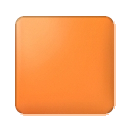
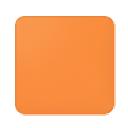
Tiles meet edge to edge, and stop looking quilted
Two more layers under the same complaint ("vẫn có mấy gợn gợn này"), neither of
them the dark seam that was already dealt with.

The gap: the keycap fills 0.71 of its PNG, so drawing at 1.3x the cell covered
only 0.925 of it and the board panel showed through the remaining 0.075 as a LIGHT
hairline around every tile. Draw scale is now 1.41 = 1/0.71, so neighbouring caps
meet exactly and only the four-corner points still show panel.

The quilting: each cap is shaded bright at the top-left and dark at the
bottom-right, which across a full board reads as a padded quilt.
scripts/flatten-tile-gloss.mjs pulls every pixel toward the cap's mean colour
(new = mean + (old - mean) * (1 - FLAT), FLAT=0.75), alpha untouched so the shape
and rounded corners are unchanged. In-tile range drops 100 -> 25.

Measured across four beige tiles on the real render, the luminance spread over a
whole row: 65 with the black seam, 12 once the tiles met, 3 now.

Same-colour regions do read as slabs at this setting -- that is the point of the
request, but FLAT is a dial if it went too far. All three art scripts are
cumulative: check the art out of an earlier commit before re-running with a
different value. Cache-buster to v10.

diff --git a/src/scenes/GameScene.ts b/src/scenes/GameScene.ts
@@ -459,7 +459,7 @@ export class GameScene extends Phaser.Scene {
       // Glossy keycap board-tile art (public/art/slime/tile-<id>.png). If present it
       // REPLACES the procedural flat tile in create(); missing ones fall back to it.
       // ?v= cache-buster: bump when the tile PNGs change so browsers refetch (they cache by URL).
-      this.load.image(`tile-${i}`, `art/slime/tile-${i}.png?v=9`);
+      this.load.image(`tile-${i}`, `art/slime/tile-${i}.png?v=10`);
     }
     // XU VÀNG màn thắng (video mẫu IMG_6489). Art thật user sẽ gửi vào public/art/coin.png;
     // thiếu/hỏng → create() vẽ placeholder (makeCoinTexture).
@@ -1435,7 +1435,12 @@ export class GameScene extends Phaser.Scene {
   // tile's color with a little face. Fills the cell so the grid reads as a mosaic.
   // A grid tile = a cute critter sprite (slime) in the tile's color.
   private makeKey(colorId: number, x: number, y: number, s: number) {
-    const img = this.add.image(0, 0, `tile-${colorId}`).setDisplaySize(s * 1.3, s * 1.3); // keycap art has ~23% transparent margin → ×1.3 makes the cap ≈ fill the cell (flush; shadow bleeds onto the next tile)
+    // The keycap fills only 0.71 of its PNG (the rest is transparent margin), so the draw
+    // scale decides how much of the cell it covers: ×1.3 covered 0.925 and left a 0.075 gap
+    // where the board panel showed through as a light hairline between every pair of tiles
+    // (user 2026-08-03: "vẫn có mấy gợn gợn này"). 1/0.71 = ×1.41 makes neighbouring caps
+    // meet exactly, so only the four-corner points still show the panel.
+    const img = this.add.image(0, 0, `tile-${colorId}`).setDisplaySize(s * 1.41, s * 1.41);
     const c = this.add.container(x, y, [img]); // tiles keep their OWN baked highlight — extra gloss overlay removed (it added a dark-cap artifact)
     c.setSize(s, s);
     c.setData("body", img); // kept so the collect animation can bob the body alone
